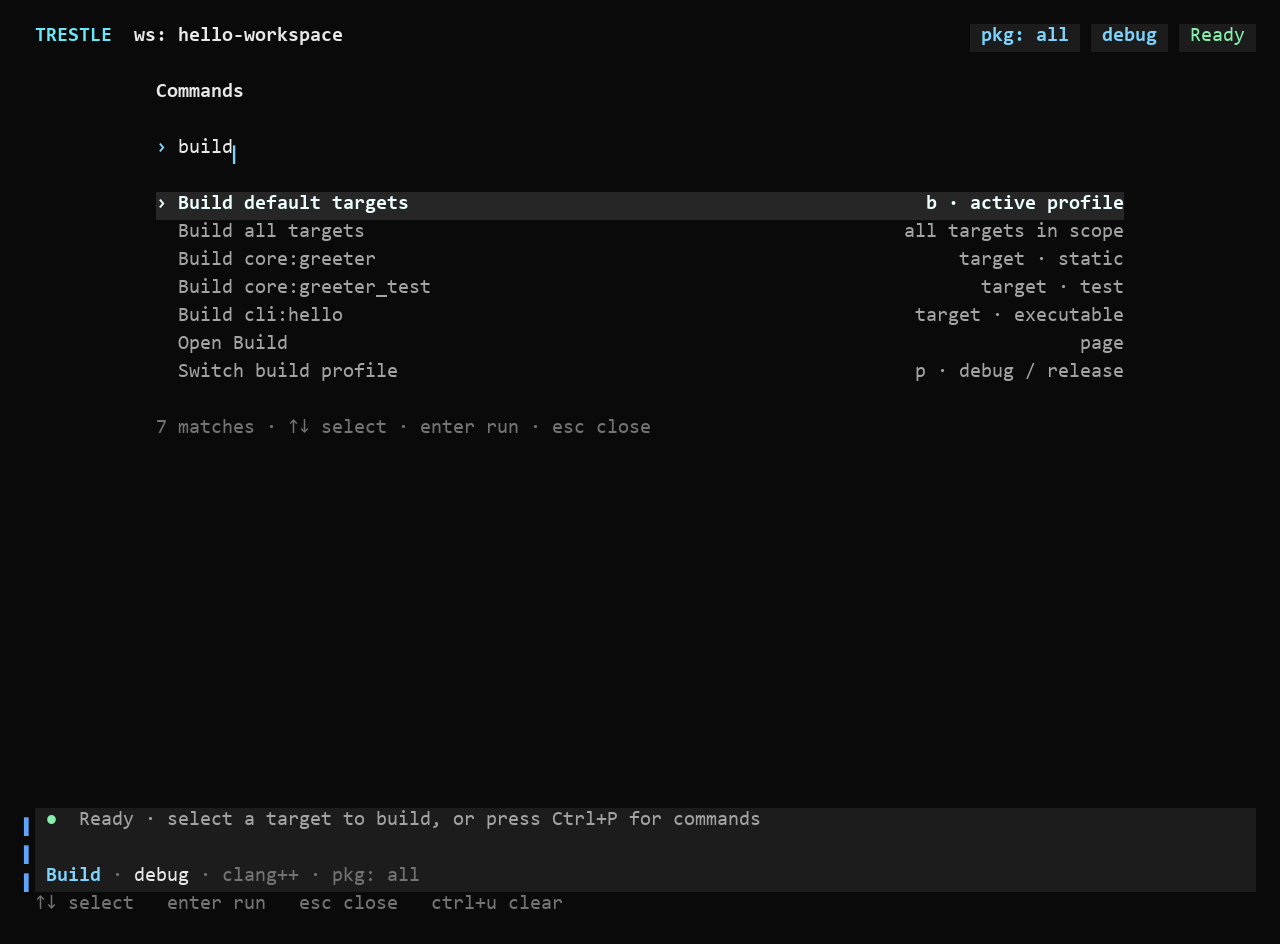
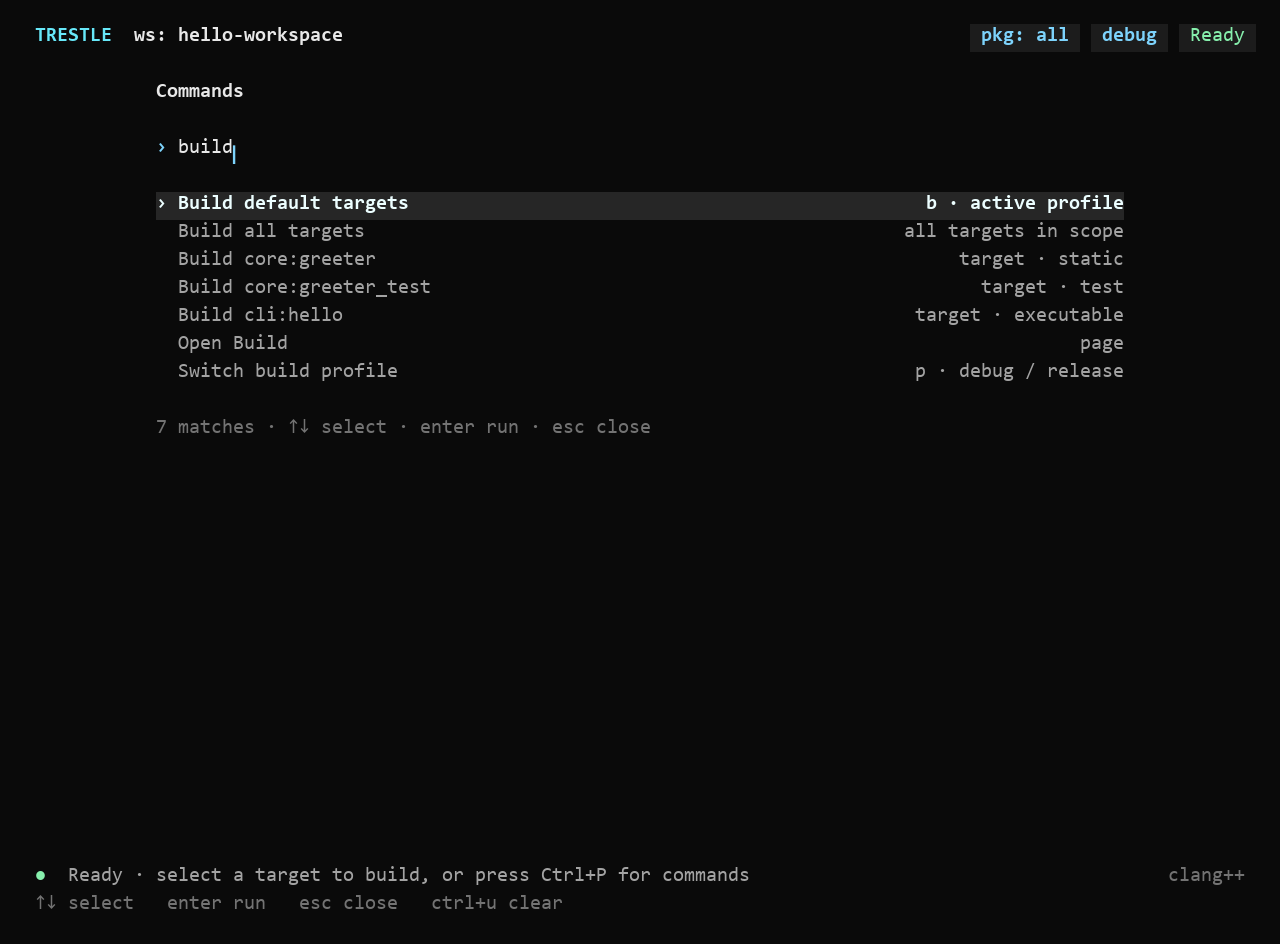
fix(tui): replace oversized action dock with compact status row

diff --git a/internal/tui/logview.go b/internal/tui/logview.go
@@ -159,7 +159,7 @@ func (model dashboardModel) logTotal() int {
 	}
 	return len(model.logRows())
 }
-func (model dashboardModel) mainHeight() int { return max(1, model.height-7) }
+func (model dashboardModel) mainHeight() int { return max(1, model.height-5) }
 
 // Output occupies space only when there is work to inspect or the user focuses it.
 func (model dashboardModel) showOutput() bool {
@@ -255,7 +255,7 @@ func (model dashboardModel) renderDashboard(p palette) string {
 	}
 	header := strings.Split(model.header(p, width), "\n")[0]
 	footer := model.focusShortcut(p, width)
-	return fitRows(strings.Split(header+"\n\n"+main+"\n\n"+model.actionDock(p, width)+"\n"+footer, "\n"), width, height)
+	return fitRows(strings.Split(header+"\n\n"+main+"\n\n"+model.footerStatus(p, width)+"\n"+footer, "\n"), width, height)
 }
 
 // overlayContent builds the title and body lines for whichever full-screen
@@ -362,23 +362,16 @@ func (model dashboardModel) focusShortcut(p palette, width int) string {
 	return p.faint.Render(left + strings.Repeat(" ", max(1, width-ansi.StringWidth(left)-ansi.StringWidth(right))) + right)
 }
 
-// actionDock keeps prompts and the active build context in one fixed location.
-func (model dashboardModel) actionDock(p palette, width int) string {
-	context := p.accent.Render("Build") + p.faint.Render(" · ") + p.text.Render(fallback(model.config.Build.Profile, "auto"))
-	context += p.faint.Render(" · " + fallback(model.scopedConfig().Toolchain.CXX, "auto compiler"))
-	if model.isWorkspace() {
-		context += p.faint.Render(" · pkg: " + fallback(model.member, "all"))
+// footerStatus is an unobtrusive status row; only an active input shows a prompt.
+func (model dashboardModel) footerStatus(p palette, width int) string {
+	inner := max(1, width-2)
+	if model.inputMode || width < 68 {
+		return " " + model.statusLine(p, inner)
 	}
-	inner := max(1, width-4)
-	rows := []string{model.statusLine(p, inner), "", context}
-	marker := lipgloss.NewStyle().Foreground(lipgloss.Color(p.borderFocus)).Render("▎")
-	background := ansi.Style{}.BackgroundColor(lipgloss.Color(p.pillBg)).String()
-	resets := strings.NewReplacer(ansi.ResetStyle, ansi.ResetStyle+background, "\x1b[0m", "\x1b[0m"+background)
-	for i, row := range rows {
-		content := fitRows([]string{" " + ansi.Truncate(row, inner, "…")}, max(1, width-1), 1)
-		rows[i] = marker + background + resets.Replace(content) + ansi.ResetStyle
-	}
-	return strings.Join(rows, "\n")
+	compiler := ansi.Truncate(fallback(model.scopedConfig().Toolchain.CXX, "auto compiler"), max(1, width/3), "…")
+	left := model.statusLine(p, max(1, inner-ansi.StringWidth(compiler)-3))
+	space := max(1, inner-ansi.StringWidth(left)-ansi.StringWidth(compiler))
+	return " " + left + strings.Repeat(" ", space) + p.faint.Render(compiler) + " "
 }
 
 func (model *dashboardModel) showDetails() {

diff --git a/internal/tui/shell_layout_test.go b/internal/tui/shell_layout_test.go
@@ -39,13 +39,17 @@ func TestWorkspaceShellFitsAllRoutesAndPaneStates(t *testing.T) {
 	base, _ := freshConsole(t)
 	for _, size := range [][2]int{{40, 12}, {68, 20}, {80, 24}, {100, 30}, {160, 50}} {
 		for _, route := range routes {
-			for state := 0; state < 4; state++ {
+			for state := 0; state < 8; state++ {
 				t.Run(fmt.Sprintf("%dx%d/%s/%d", size[0], size[1], route, state), func(t *testing.T) {
 					model := base
 					model.width, model.height, model.route = size[0], size[1], route
 					model.sidebarVisible = state&1 != 0
 					if state&2 != 0 {
 						model.workflowLog = []string{strings.Repeat("构建 output ", 20), "last line"}
+					}
+					if state&4 != 0 {
+						model.openInput("setting", "Edit setting")
+						model.inputText = strings.Repeat("长输入", 30)
 					}
 					assertFrameFits(t, model)
 				})
@@ -68,6 +72,8 @@ func assertFrameFits(t *testing.T, model dashboardModel) {
 	hint := "? help"
 	if model.commandsOpen {
 		hint = "esc close"
+	} else if model.inputMode {
+		hint = "enter save"
 	}
 	if !strings.Contains(lines[len(lines)-1], hint) {
 		t.Fatal("footer was clipped")

diff --git a/docs/tui.zh-CN.md b/docs/tui.zh-CN.md
@@ -54,6 +54,6 @@
 
 空日志区不占空间；开始构建、测试或安装后显示输出。少于 20 行的窗口按焦点显示内容或日志，可用 Tab 切换。`F2` 随时打开完整日志。
 
-底部灰色区域固定显示状态或输入提示，以及当前构建配置、编译器和 workspace 成员范围。输入支持粘贴、`Ctrl+U` 清空、`Ctrl+W` 删除一个词。长输入会向左滚动，保留末尾和光标可见。
+底部用一行文字显示状态和编译器，下一行显示快捷键。构建配置和 workspace 成员范围显示在顶部。进入搜索或编辑时，状态行切换为输入提示，支持粘贴、`Ctrl+U` 清空、`Ctrl+W` 删除一个词。长输入会向左滚动，保留末尾和光标可见。
 
 颜色随终端的深色或浅色背景切换。导航显示状态、页面选择和筛选条件仅在本次会话内保留。
